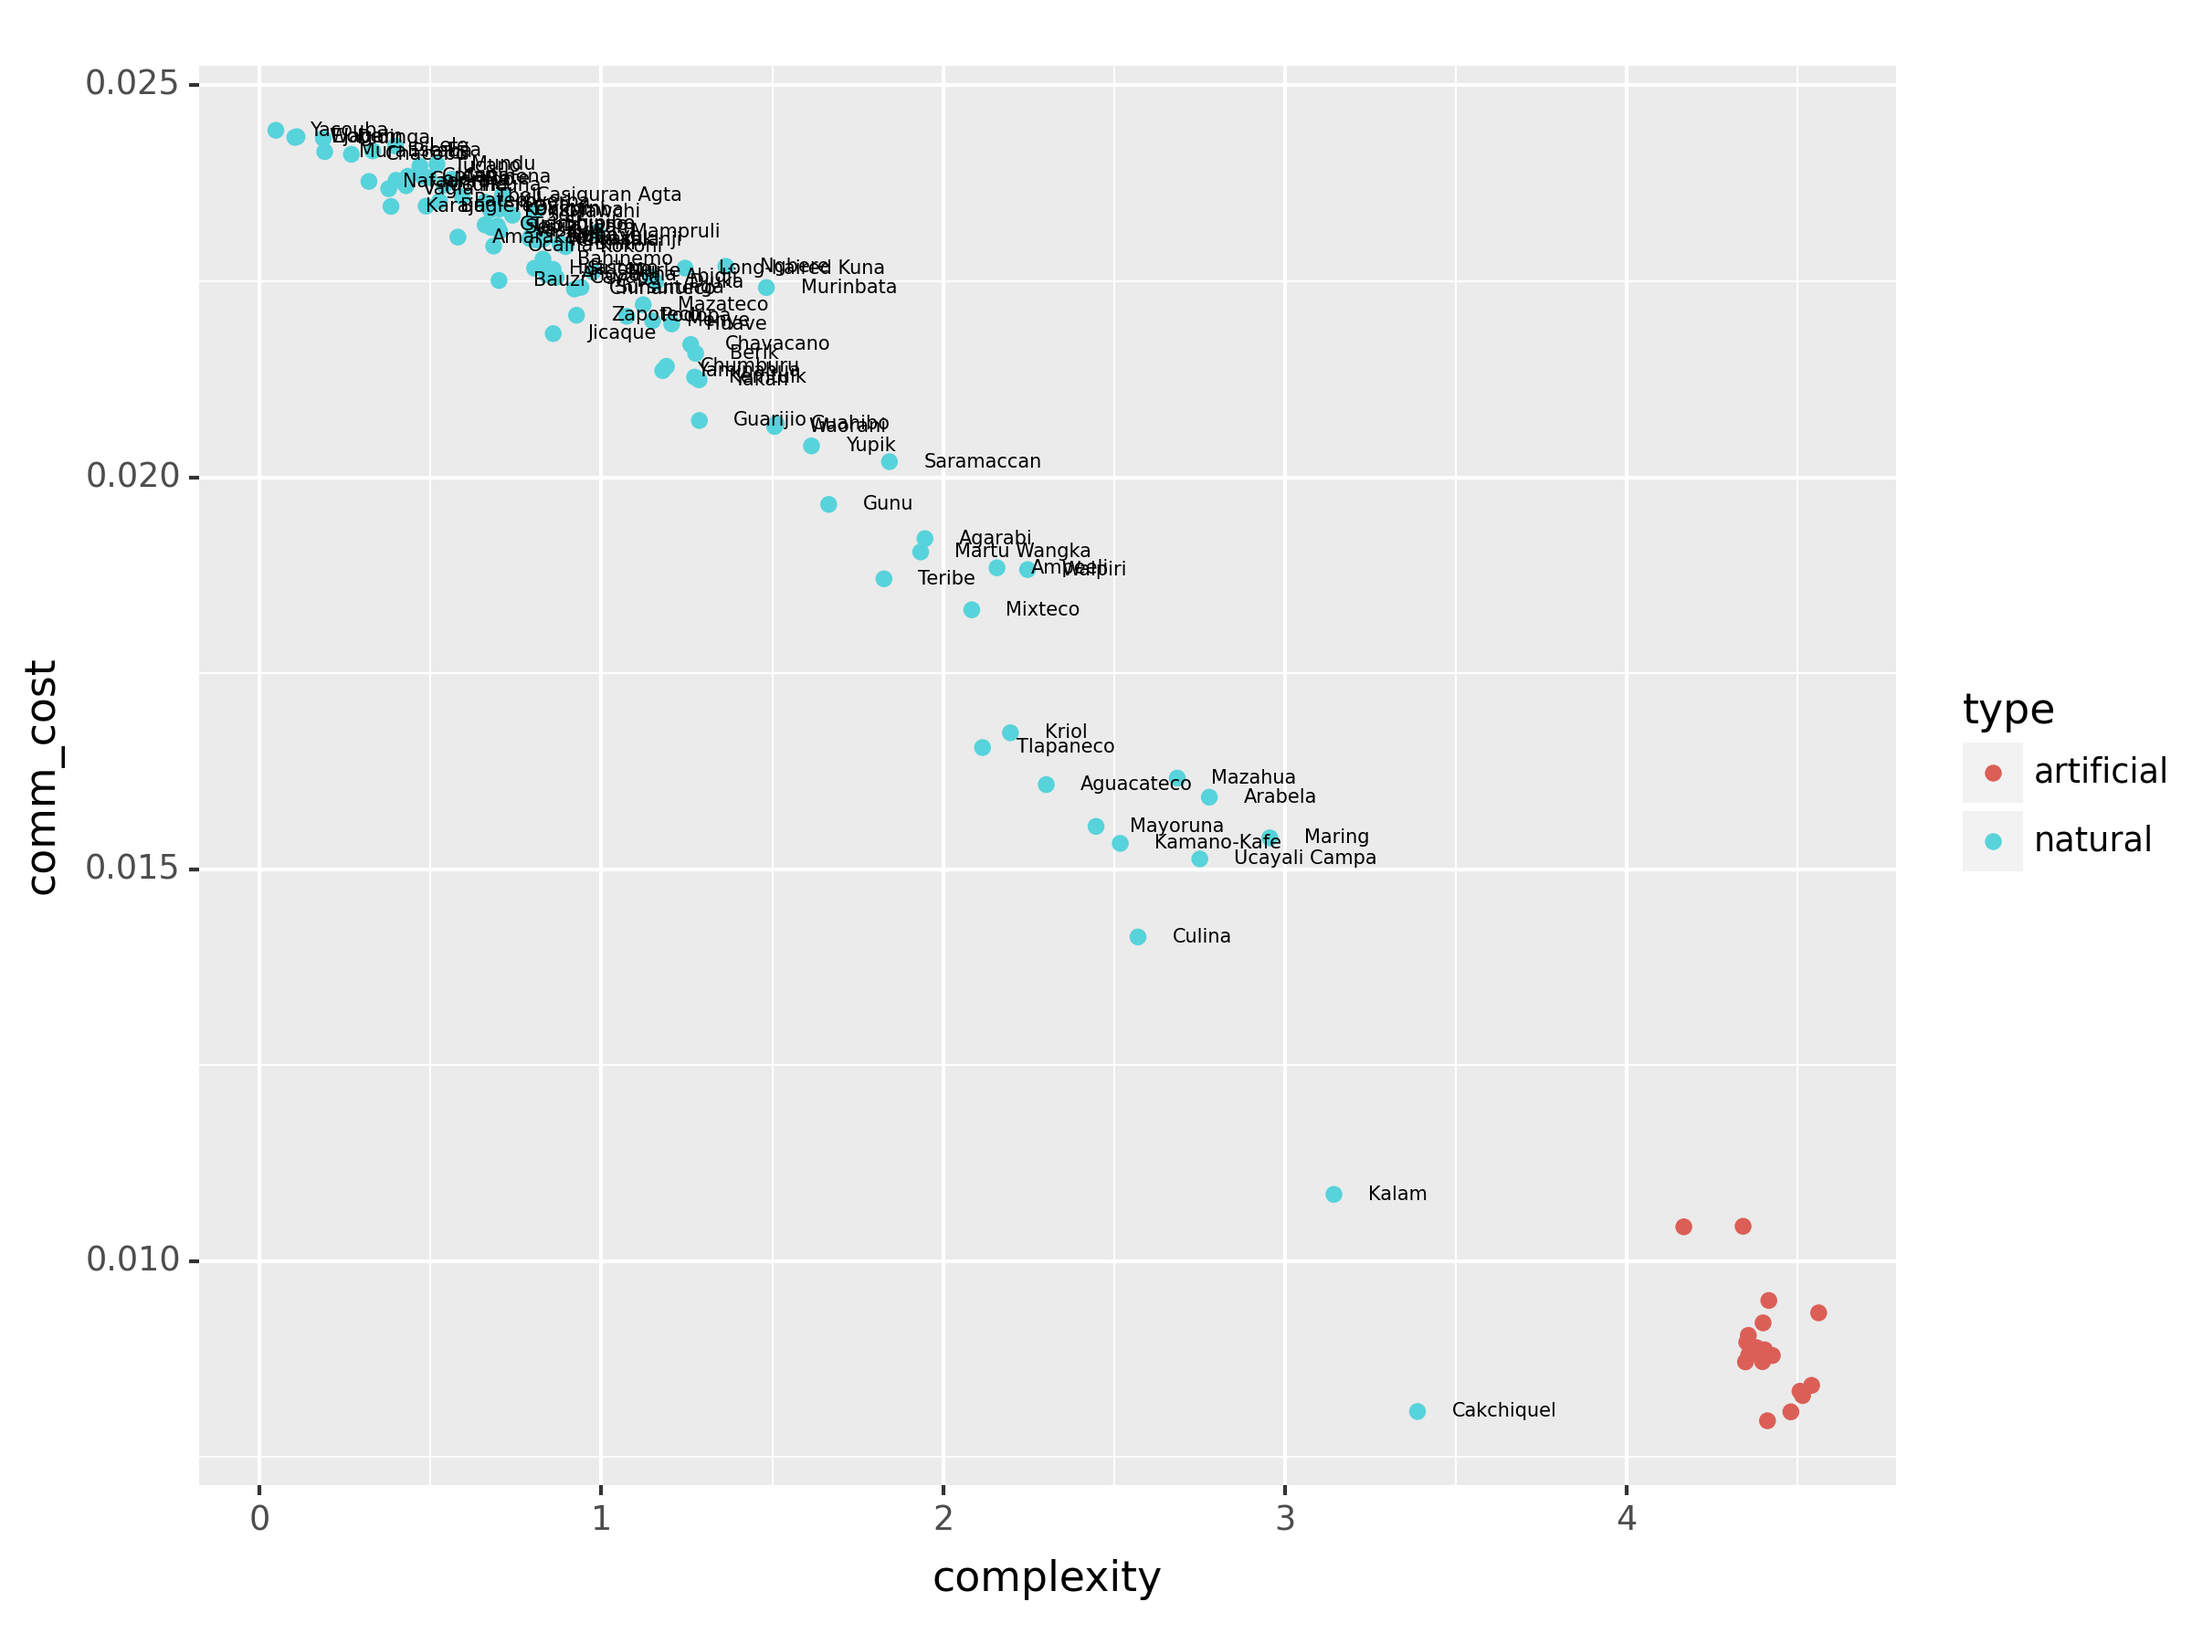
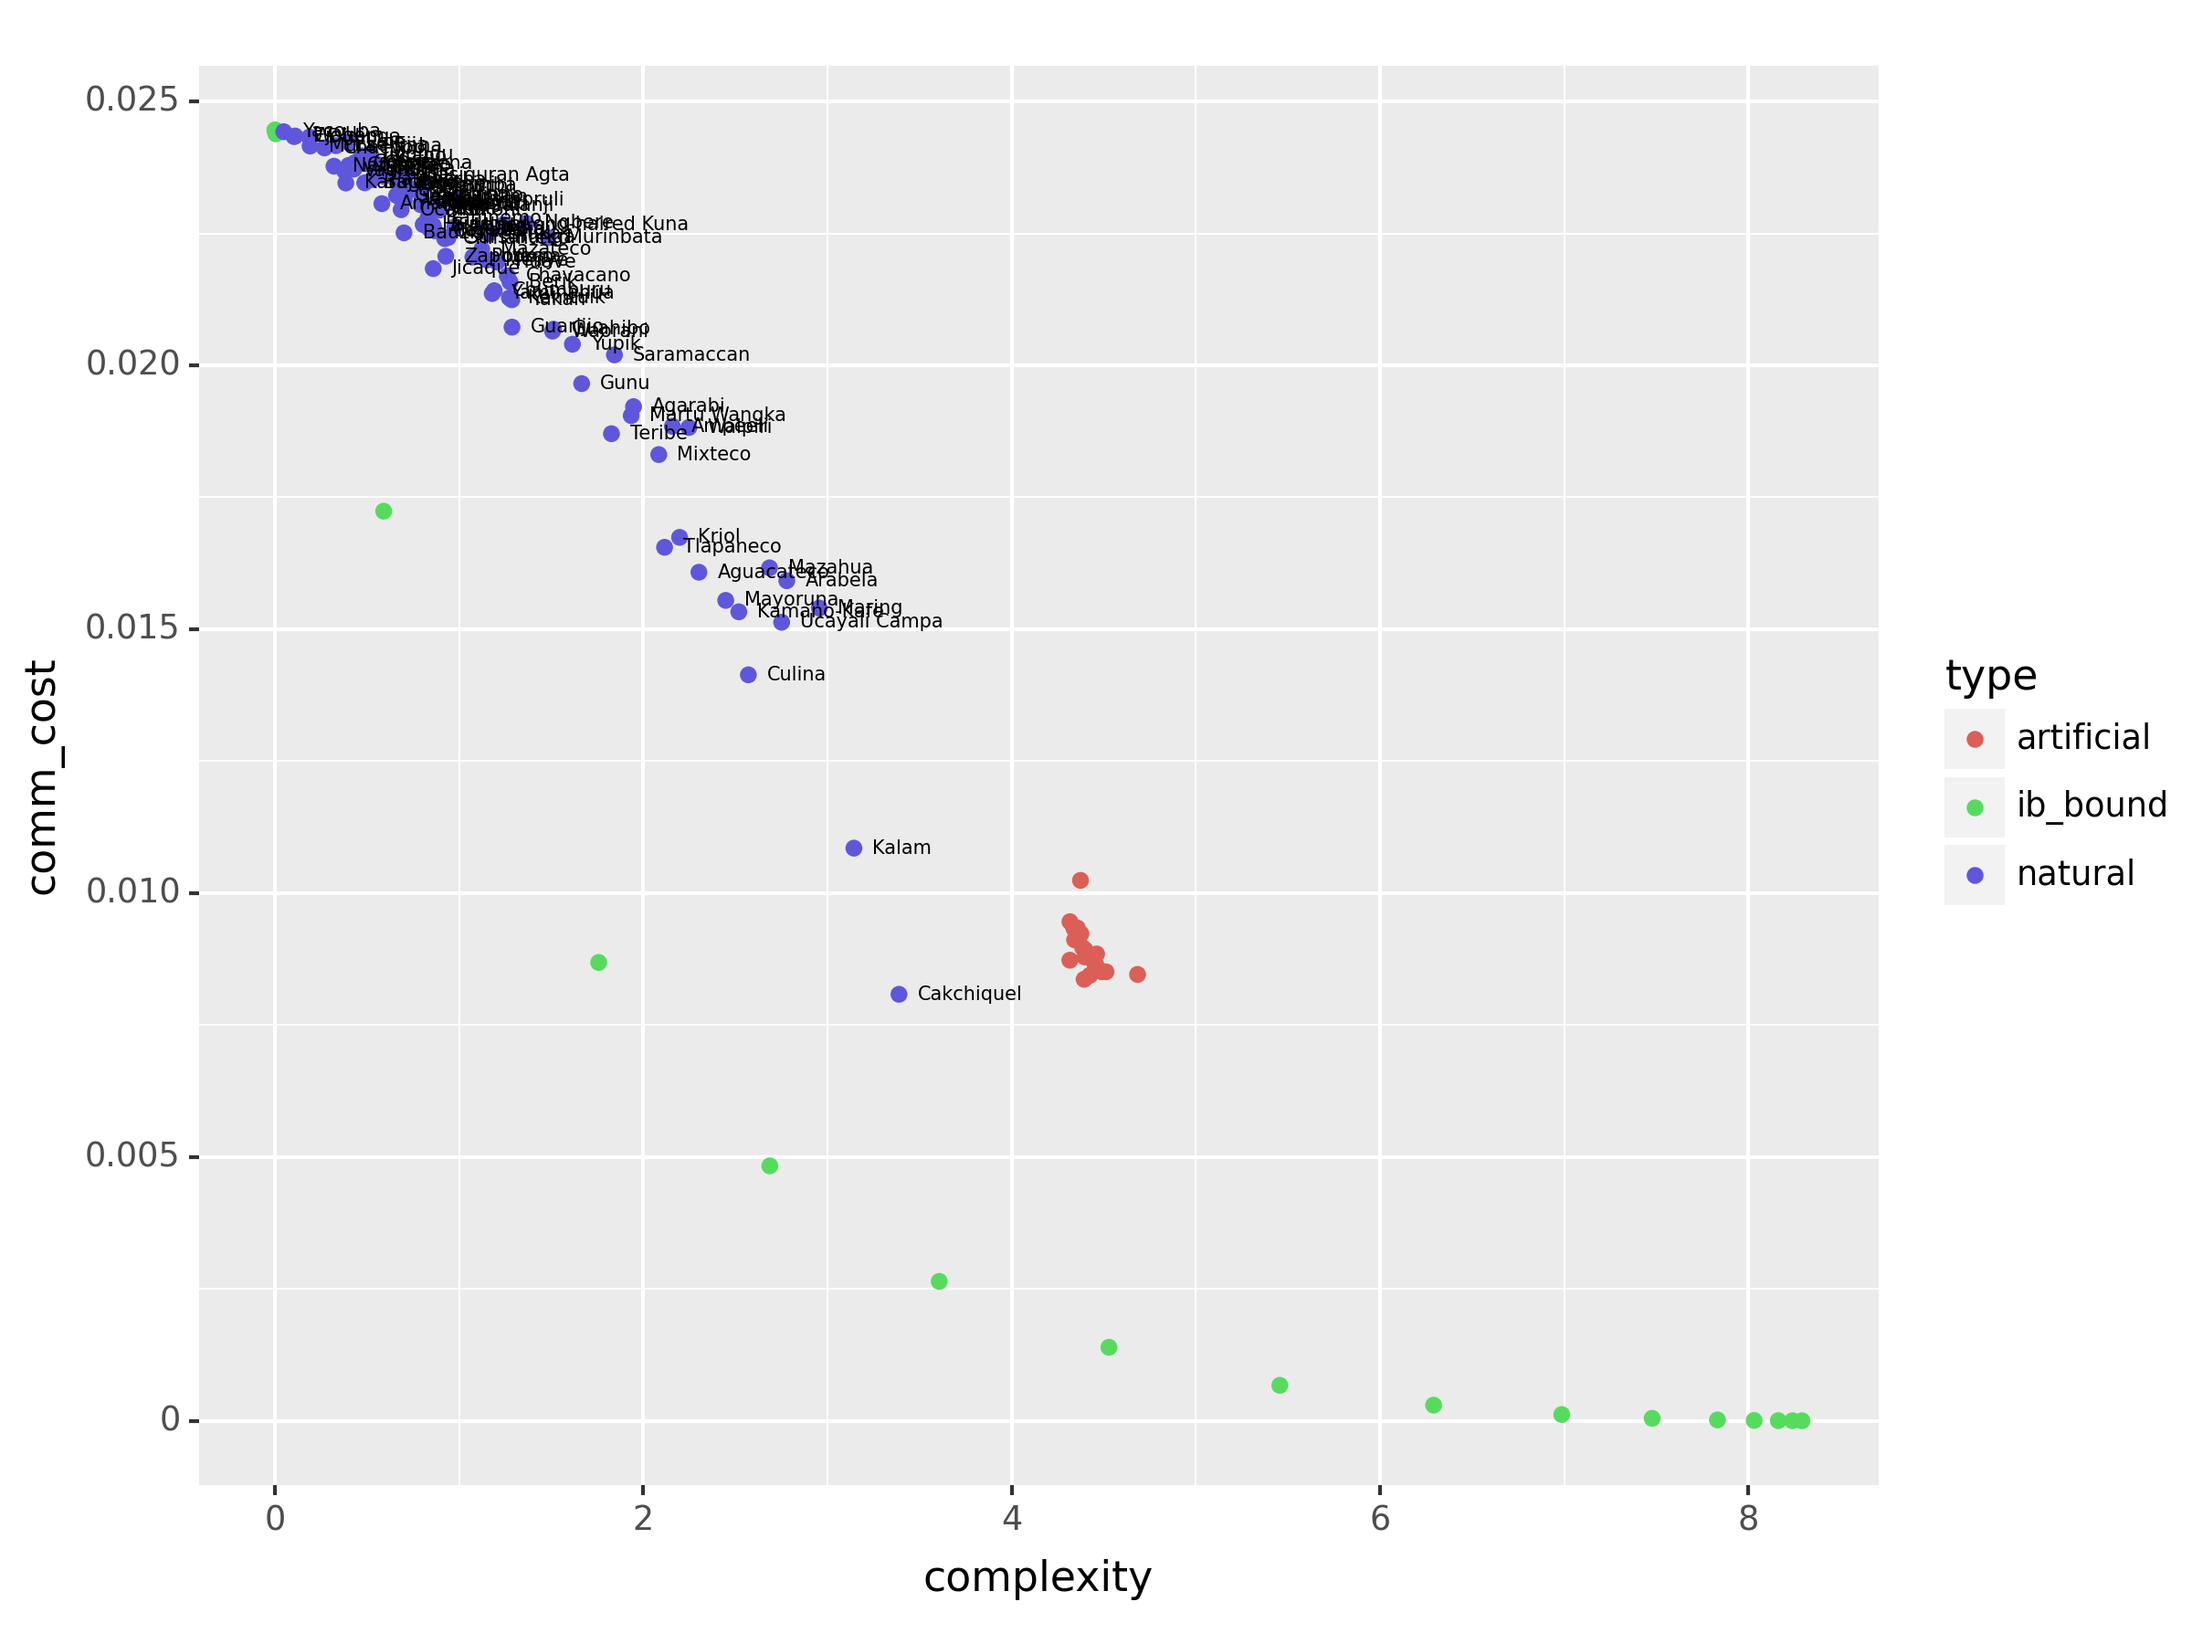
Added IB curve back + more customization

diff --git a/src/examples/colors/meaning.py b/src/examples/colors/meaning.py
@@ -27,7 +27,7 @@ wcs_dialect.delimiter = "\t"
 language_codes = dict()
 language_terms = dict()
 
-GENERATE_IB_BOUND=False
+GENERATE_IB_BOUND=True
 USE_RKK = False
 USE_NOGA_ARRAYS = False
 GENERATE_LANG_COLOR_INFO=False
@@ -284,8 +284,11 @@ combined_data = pd.DataFrame(language_data, columns =['name','type','speaker_id'
 #Get the IB bound for the specified parameters
 #ib_boundary = rd.get_ib_bound(prior=uniform_prior, meaning_dists=meaning_dists, betas=np.logspace(-2, 2, 10))
 if(GENERATE_IB_BOUND):
-    ib_boundary = rd.get_ib_bound(prior=uniform_prior, meaning_dists=meaning_dists, betas=np.arange(0, 2, .2))
-
+    betas = np.arange(0, 5, .2)
+    if(USE_NOGA_ARRAYS):
+        ib_boundary = rd.get_ib_bound(prior=noga_prior, meaning_dists=noga_meaning_dists)
+    else:
+        ib_boundary = rd.get_ib_bound(prior=uniform_prior, meaning_dists=meaning_dists)
     ib_boundary_points = pd.DataFrame([("ib_bound", "ib_bound", ib_point.rate, ib_point.accuracy, ib_point.distortion ) 
                     for ib_point in ib_boundary if ib_point is not None], columns =['name','type','complexity', 'informativity', 'comm_cost'])
 
@@ -329,14 +332,17 @@ plot.save(f"{current_dir}/outputs/complexity-commcost.png", width=8, height=6, d
 plot = (
     pn.ggplot(pn.aes(x="complexity", y="informativity"))
     + pn.geom_point(combined_data, pn.aes(color="type"))
+
+    )
+"""
     + pn.geom_text(
         combined_data[combined_data["type"] == "natural"],
         pn.aes(label="name"),
         ha="left",
         size=5,
         nudge_x=0.1,)
-    )
-
+    """
+    
 plot.save(f"{current_dir}/outputs/complexity-informativity.png", width=8, height=6, dpi=300)
 
 plot = (
